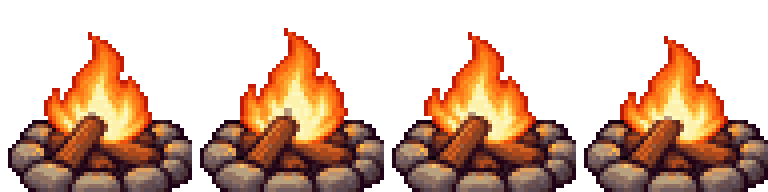
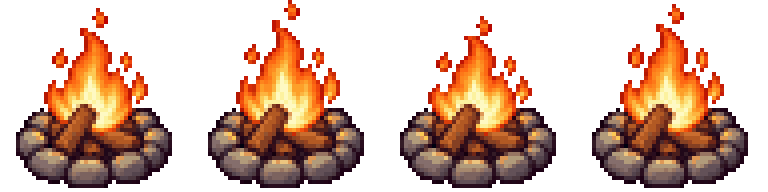
Camp art: fix clipped/squashed base-object sprites

diff --git a/index.html b/index.html
@@ -7,10 +7,10 @@
 <link rel="preconnect" href="https://fonts.googleapis.com">
 <link rel="preconnect" href="https://fonts.gstatic.com" crossorigin>
 <link rel="stylesheet" href="https://fonts.googleapis.com/css2?family=LXGW+WenKai+TC&display=swap">
-<link rel="stylesheet" href="css/font.css?v=171">
-<link rel="stylesheet" href="css/style.css?v=171">
-<link rel="stylesheet" href="css/decor.css?v=171">
-<link rel="stylesheet" href="css/peglin.css?v=171">
+<link rel="stylesheet" href="css/font.css?v=172">
+<link rel="stylesheet" href="css/style.css?v=172">
+<link rel="stylesheet" href="css/decor.css?v=172">
+<link rel="stylesheet" href="css/peglin.css?v=172">
 </head>
 <body>
 <div id="app">
@@ -29,42 +29,42 @@
 <div id="modalRoot"></div>
 <div id="toastRoot"></div>
 
-<script src="data/bank.js?v=171"></script>
-<script src="data/learn.js?v=171"></script>
-<script src="data/prompts.js?v=171"></script>
-<script src="js/util.js?v=171"></script>
-<script src="js/sprites.js?v=171"></script>
-<script src="js/pets.js?v=171"></script>
-<script src="js/audio.js?v=171"></script>
-<script src="js/content.js?v=171"></script>
-<script src="js/content2.js?v=171"></script>
-<script src="js/monsters.js?v=171"></script>
-<script src="js/world.js?v=171"></script>
-<script src="js/hero-atlas.js?v=171"></script>
-<script src="js/heroes.js?v=171"></script>
-<script src="js/store.js?v=171"></script>
-<script src="js/favorites.js?v=171"></script>
-<script src="js/secrets.js?v=171"></script>
-<script src="js/question.js?v=171"></script>
-<script src="js/run.js?v=171"></script>
-<script src="js/fx.js?v=171"></script>
-<script src="js/battle.js?v=171"></script>
-<script src="js/screens.js?v=171"></script>
-<script src="js/camp.js?v=171"></script>
-<script src="js/decor-data.js?v=171"></script>
-<script src="js/decor.js?v=171"></script>
-<script src="js/pomo.js?v=171"></script>
-<script src="js/calc.js?v=171"></script>
-<script src="js/learn.js?v=171"></script>
-<script src="js/glossary.js?v=171"></script>
-<script src="js/importer.js?v=171"></script>
-<script src="js/prompts_ui.js?v=171"></script>
-<script src="js/peglin.js?v=171"></script>
-<script src="js/cloud-config.js?v=171"></script>
-<script src="js/cloud.js?v=171"></script>
-<script src="js/pad.js?v=171"></script>
-<script src="js/ai.js?v=171"></script>
-<script src="js/toolmenu.js?v=171"></script>
-<script src="js/main.js?v=171"></script>
+<script src="data/bank.js?v=172"></script>
+<script src="data/learn.js?v=172"></script>
+<script src="data/prompts.js?v=172"></script>
+<script src="js/util.js?v=172"></script>
+<script src="js/sprites.js?v=172"></script>
+<script src="js/pets.js?v=172"></script>
+<script src="js/audio.js?v=172"></script>
+<script src="js/content.js?v=172"></script>
+<script src="js/content2.js?v=172"></script>
+<script src="js/monsters.js?v=172"></script>
+<script src="js/world.js?v=172"></script>
+<script src="js/hero-atlas.js?v=172"></script>
+<script src="js/heroes.js?v=172"></script>
+<script src="js/store.js?v=172"></script>
+<script src="js/favorites.js?v=172"></script>
+<script src="js/secrets.js?v=172"></script>
+<script src="js/question.js?v=172"></script>
+<script src="js/run.js?v=172"></script>
+<script src="js/fx.js?v=172"></script>
+<script src="js/battle.js?v=172"></script>
+<script src="js/screens.js?v=172"></script>
+<script src="js/camp.js?v=172"></script>
+<script src="js/decor-data.js?v=172"></script>
+<script src="js/decor.js?v=172"></script>
+<script src="js/pomo.js?v=172"></script>
+<script src="js/calc.js?v=172"></script>
+<script src="js/learn.js?v=172"></script>
+<script src="js/glossary.js?v=172"></script>
+<script src="js/importer.js?v=172"></script>
+<script src="js/prompts_ui.js?v=172"></script>
+<script src="js/peglin.js?v=172"></script>
+<script src="js/cloud-config.js?v=172"></script>
+<script src="js/cloud.js?v=172"></script>
+<script src="js/pad.js?v=172"></script>
+<script src="js/ai.js?v=172"></script>
+<script src="js/toolmenu.js?v=172"></script>
+<script src="js/main.js?v=172"></script>
 </body>
 </html>

diff --git a/css/style.css b/css/style.css
@@ -704,7 +704,7 @@ input[type=range]::-moz-range-thumb { width: 14px; height: 18px; background: var
 .camp-mail .flag-dot { position: absolute; right: 2px; top: 6px; width: 8px; height: 8px; background: #ff5c6c; border: 2px solid var(--line); animation: ptTwinkle 1.2s steps(2) infinite; }
 .camp-mail.read .flag-dot { display: none; }
 .camp-pot { left: 73%; bottom: 22px; }
-.camp-pond { right: 2%; bottom: 3px; width: min(170px, 22%); z-index: 1; }
+.camp-pond { right: 2%; bottom: 3px; width: min(128px, 17%); z-index: 1; }
 .camp-pond > img { width: 100%; display: block; image-rendering: pixelated; }
 
 
@@ -772,7 +772,7 @@ input[type=range]::-moz-range-thumb { width: 14px; height: 18px; background: var
 }
 @media (max-width: 640px) {
   .camp-wrap .camp-obj { zoom: .72; }
-  .camp-wrap .camp-pond { zoom: 1; width: 26%; }
+  .camp-wrap .camp-pond { zoom: 1; width: 21%; }
   .camp-wrap .camp-hero { left: 17%; }
   .camp-mail { left: 34%; }
   .camp-pot { left: 66%; }
@@ -1635,7 +1635,7 @@ html:has(.win-resizing) { cursor: nwse-resize; }
 .camp-fire { width:70px; height:78px; }
 .camp-mail { width:40px; height:48px; }
 .camp-pot { width:48px; height:56px; }
-.camp-pond { aspect-ratio:48 / 14; }
+.camp-pond { aspect-ratio:64 / 38; }
 .camp-art { display:block; position:absolute; top:0; left:0; width:100%; image-rendering:pixelated; background-repeat:no-repeat; }
 .board-art { height:36px; background-image:url('../assets/camp/board.png'); background-size:100% 100%; }
 .fire-art { height:70px; background-image:url('../assets/camp/fire.png'); background-size:400% 100%; animation:campFireFrames .8s steps(4) infinite; }

diff --git a/tools/decor-qa/make-camp-art.py b/tools/decor-qa/make-camp-art.py
@@ -1,74 +1,152 @@
-from PIL import Image, ImageDraw
+"""Build the camp base-object sprite sheets in assets/camp/ from docs/decor/camp-base-source.png.
+
+Each object is cropped from its real bounding box (with margin), scaled to fit its logical
+canvas without changing the aspect ratio, anchored bottom-center, and snapped to a pixel grid
+(binary alpha, small palette), then upscaled x4. Run: python tools/decor-qa/make-camp-art.py
+"""
+from PIL import Image, ImageDraw
 from pathlib import Path
-src=Image.open('docs/decor/camp-base-source.png').convert('RGBA')
-out=Path('assets/camp'); out.mkdir(exist_ok=True)
-# Snap each isolated cutout to a 1px logical grid, quantize, binary alpha, upscale x4.
-def sprite(box,size):
- im=src.crop(box).resize(size,Image.Resampling.LANCZOS)
- a=im.getchannel('A').point(lambda x:255 if x>=128 else 0)
- rgb=im.convert('RGB').quantize(colors=48,method=Image.Quantize.MEDIANCUT,dither=Image.Dither.NONE).convert('RGBA'); rgb.putalpha(a)
- # Keep the largest connected silhouette; remove detached generation specks.
- pix=rgb.load(); seen=set(); groups=[]
- for y in range(rgb.height):
-  for x in range(rgb.width):
-   if pix[x,y][3] and (x,y) not in seen:
-    todo=[(x,y)]; seen.add((x,y)); group=[]
-    while todo:
-     q=todo.pop(); group.append(q)
-     for xx,yy in ((q[0]-1,q[1]),(q[0]+1,q[1]),(q[0],q[1]-1),(q[0],q[1]+1)):
-      if 0<=xx<rgb.width and 0<=yy<rgb.height and (xx,yy) not in seen and pix[xx,yy][3]: seen.add((xx,yy)); todo.append((xx,yy))
-    groups.append(group)
- if groups:
-  for group in groups:
-   if group is not max(groups,key=len):
-    for x,y in group: pix[x,y]=(0,0,0,0)
- return rgb
-fire=sprite((40,175,385,570),(48,48)); board=sprite((405,195,810,562),(36,36)); mail=sprite((850,198,1130,570),(40,40)); plant=sprite((1160,210,1495,570),(48,48)); pond=sprite((1495,280,2010,570),(96,28))
-def save(im,name): im.resize((im.width*4,im.height*4),Image.Resampling.NEAREST).save(out/name)
-def strip(frames,name):
- im=Image.new('RGBA',(frames[0].width*len(frames),frames[0].height))
- for i,f in enumerate(frames): im.paste(f,(i*f.width,0))
- save(im,name)
-save(board,'board.png')
-# Animate only flame region, retaining the stone and log base.
-frames=[]
-for dx,dy in [(0,0),(1,-1),(-1,0),(0,1)]:
- f=fire.copy(); patch=fire.crop((8,1,40,29)); f.paste((0,0,0,0),(8,1,40,29)); f.alpha_composite(patch,(8+dx,1+dy)); frames.append(f)
-strip(frames,'fire.png')
-# Lower the flag by replacing its raised segment with a short horizontal flag.
-down=mail.copy(); d=ImageDraw.Draw(down); d.rectangle((28,0,39,17),fill=(0,0,0,0)); d.rectangle((29,14,37,17),fill=(57,29,41,255)); d.rectangle((30,14,37,15),fill=(193,53,50,255))
-strip([mail,down],'mail.png')
-# Keep the generated pot body and add successive plant growth, keeping every frame registered.
-frames=[]
+import numpy as np
+
+SRC = Image.open('docs/decor/camp-base-source.png').convert('RGBA')
+OUT = Path('assets/camp'); OUT.mkdir(exist_ok=True)
+A = np.array(SRC.getchannel('A'))
+
+# x ranges of the five objects on the source sheet (left to right)
+REGIONS = {'fire': (0, 425), 'board': (425, 880), 'mail': (880, 1215), 'pot': (1215, 1575), 'pond': (1575, SRC.width)}
+
+def bbox(x0, x1, thr=40):
+    ys, xs = np.nonzero(A[:, x0:x1] >= thr)
+    return x0 + xs.min(), ys.min(), x0 + xs.max() + 1, ys.max() + 1
+
+def clean(im):
+    """Binary alpha, quantize, drop isolated specks of 1-2 px."""
+    a = im.getchannel('A').point(lambda v: 255 if v >= 110 else 0)
+    rgb = im.convert('RGB').quantize(colors=56, method=Image.Quantize.MEDIANCUT, dither=Image.Dither.NONE).convert('RGBA')
+    rgb.putalpha(a)
+    px = rgb.load(); W, H = rgb.size; seen = set()
+    for y in range(H):
+        for x in range(W):
+            if px[x, y][3] and (x, y) not in seen:
+                todo = [(x, y)]; seen.add((x, y)); grp = []
+                while todo:
+                    q = todo.pop(); grp.append(q)
+                    for xx, yy in ((q[0]-1, q[1]), (q[0]+1, q[1]), (q[0], q[1]-1), (q[0], q[1]+1)):
+                        if 0 <= xx < W and 0 <= yy < H and (xx, yy) not in seen and px[xx, yy][3]:
+                            seen.add((xx, yy)); todo.append((xx, yy))
+                if len(grp) <= 2:
+                    for p in grp: px[p] = (0, 0, 0, 0)
+    return rgb
+
+def fit(box, size, margin=6):
+    """Crop source box (+margin), scale to fit size keeping aspect, paste bottom-center."""
+    x0, y0, x1, y1 = box
+    crop = SRC.crop((x0 - margin, y0 - margin, x1 + margin, y1 + margin))
+    W, H = size
+    k = min((W - 2) / crop.width, (H - 1) / crop.height)
+    w, h = max(1, round(crop.width * k)), max(1, round(crop.height * k))
+    small = crop.resize((w, h), Image.Resampling.LANCZOS)
+    canvas = Image.new('RGBA', size)
+    canvas.alpha_composite(small, ((W - w) // 2, H - h))
+    return clean(canvas)
+
+def save(im, name):
+    im.resize((im.width * 4, im.height * 4), Image.Resampling.NEAREST).save(OUT / name)
+
+def strip(frames, name):
+    im = Image.new('RGBA', (frames[0].width * len(frames), frames[0].height))
+    for i, f in enumerate(frames): im.paste(f, (i * f.width, 0))
+    save(im, name)
+
+boxes = {k: bbox(*v) for k, v in REGIONS.items()}
+
+# ---- board (36x36)
+board = fit(boxes['board'], (36, 36)); save(board, 'board.png')
+
+# ---- fire (48x48): flicker by stretching the flame part above the log/stone base
+fire = fit(boxes['fire'], (48, 48))
+split = 30  # rows above this are flame; base (logs + stones) stays fixed
+frames = []
+for s in (1.0, 1.08, 0.94, 1.04):
+    f = fire.copy()
+    top = fire.crop((0, 0, 48, split))
+    nh = max(1, round(split * s))
+    top2 = top.resize((48, nh), Image.Resampling.NEAREST)
+    f.paste((0, 0, 0, 0), (0, 0, 48, split))
+    y = split - nh
+    if y < 0: top2 = top2.crop((0, -y, 48, nh)); y = 0
+    f.alpha_composite(top2, (0, y))
+    # re-lay the base so stretched flame never hides the logs' outline
+    f.alpha_composite(fire.crop((0, split, 48, 48)), (0, split))
+    frames.append(f)
+strip(frames, 'fire.png')
+
+# ---- mail (40x40): frame 0 flag up (has mail), frame 1 flag lowered (read)
+mail = fit(boxes['mail'], (40, 40))
+arr = np.array(mail)
+red = (arr[..., 0] > 150) & (arr[..., 1] < 75) & (arr[..., 2] < 75) & (arr[..., 3] > 0)
+red[20:] = False  # the raised flag is in the top half
+ry, rx = np.nonzero(red)
+down = mail.copy()
+if len(rx):
+    fx0, fx1, fy0, fy1 = rx.min(), rx.max(), ry.min(), ry.max()
+    d = ImageDraw.Draw(down)
+    col = np.nonzero(arr[:, max(0, fx0 - 4), 3] > 0)[0]
+    boxtop = int(col.min()) if len(col) else fy1 + 1               # top of the box just left of the flag
+    d.rectangle((fx0 - 1, 0, 39, boxtop - 1), fill=(0, 0, 0, 0))   # remove raised flag above the box
+    for y, x in zip(*np.nonzero(red)): down.putpixel((int(x), int(y)), (0, 0, 0, 0))
+    mid = boxtop + 6
+    d.rectangle((fx0 - 1, mid - 1, min(39, fx0 + 7), mid + 2), fill=(43, 22, 30, 255))  # outline
+    d.rectangle((fx0, mid, min(38, fx0 + 6), mid + 1), fill=(193, 53, 50, 255))
+strip([mail, down], 'mail.png')
+
+# ---- pot (48x48): stage 4 = full flowering plant; 0-3 = same pot body with growing sprout
+plant = fit(boxes['pot'], (48, 48))
+parr = np.array(plant)
+terra = (parr[..., 0] > 140) & (parr[..., 1] > 60) & (parr[..., 1] < 130) & (parr[..., 2] < 90) & (parr[..., 3] > 0)
+rows = np.nonzero(terra.sum(1) >= 8)[0]
+rim = int(rows.min()) if len(rows) else 32
+xs = np.nonzero(terra.any(0))[0]; cx = int((xs.min() + xs.max()) // 2) if len(xs) else 24
+body = Image.new('RGBA', (48, 48)); body.alpha_composite(plant.crop((0, rim, 48, 48)), (0, rim))
+def largest(im):
+    from scipy import ndimage
+    a = np.array(im); lab, n = ndimage.label(a[..., 3] > 0)
+    if n > 1:
+        keep = np.argmax(ndimage.sum(np.ones_like(lab), lab, range(1, n + 1))) + 1
+        a[lab != keep] = 0
+    return Image.fromarray(a)
+body = largest(body)
+frames = []
 for stage in range(5):
- if stage==4: frames.append(plant.copy()); continue
- f=Image.new('RGBA',(48,48)); f.alpha_composite(plant.crop((8,32,40,48)),(8,32)); d=ImageDraw.Draw(f)
- d.ellipse((12,26,36,31),fill=(69,37,32,255)); d.ellipse((14,27,34,30),fill=(105,66,44,255))
- if stage>=1:
-  d.line([(24,28),(24,23 if stage==1 else 17)],fill=(47,78,38,255),width=2)
-  d.polygon([(24,25),(19,21),(16,22),(19,25)],fill=(75,120,48,255))
- if stage>=2:
-  d.polygon([(24,23),(29,17),(34,18),(30,22)],fill=(89,135,50,255)); d.polygon([(24,20),(20,15),(16,16),(19,20)],fill=(63,108,41,255))
- if stage>=3:
-  d.ellipse((20,10,28,18),fill=(93,44,51,255)); d.ellipse((21,10,27,16),fill=(220,115,141,255))
- frames.append(f)
-strip(frames,'pot.png')
-# Shift small water highlights across otherwise identical pond frames.
-frames=[]
-for shift in [0,2,4,2]:
- f=pond.copy(); d=ImageDraw.Draw(f); d.line((34+shift,13,39+shift,13),fill=(151,205,217,255),width=1); frames.append(f)
-strip(frames,'pond.png')
-# Review backgrounds: a classic grass approximation and two real scene variants.
-from PIL import ImageFont
-sheet=Image.new('RGB',(1200,780),(38,43,44)); draw=ImageDraw.Draw(sheet)
-bgs=[('classic day',None),('classic night',None),('beach day','assets/decor/scenes/scene_beach_day.png'),('beach night','assets/decor/scenes/scene_beach_night.png'),('sakura day','assets/decor/scenes/scene_sakura_day.png'),('sakura night','assets/decor/scenes/scene_sakura_night.png')]
-variants=[('board', [board]),('fire', [fire]+frames[:0]),('mail',[mail,down]),('pot',[]),('pond',[])]
-for row,(label,path) in enumerate(bgs):
- y=row*130; bg=Image.open(path).convert('RGB').resize((1200,300)).crop((0,160,1200,290)) if path else Image.new('RGB',(1200,130),(83,139,76) if row==0 else (32,62,50)); sheet.paste(bg,(0,y)); draw.text((5,y+3),label,fill='white')
- for idx,(name,count) in enumerate([('board',1),('fire',4),('mail',2),('pot',5),('pond',4)]):
-  raw=Image.open(out/(name+'.png')); fw=raw.width//count
-  for n in range(count):
-   im=raw.crop((n*fw,0,(n+1)*fw,raw.height)); im.thumbnail((55 if name!='pond' else 70,80),Image.Resampling.NEAREST)
-   x=125+idx*210+n*(37 if name=='pot' else 42); sheet.paste(im,(x,y+115-im.height),im)
-  draw.text((125+idx*210,y+5),name,fill='white')
-sheet.save('docs/decor/contact-camp-base.png')
+    if stage == 4: frames.append(plant.copy()); continue
+    f = body.copy(); d = ImageDraw.Draw(f)
+    d.ellipse((cx - 11, rim - 2, cx + 11, rim + 3), fill=(69, 37, 32, 255)); d.ellipse((cx - 9, rim - 1, cx + 9, rim + 2), fill=(105, 66, 44, 255))
+    if stage >= 1:
+        top = rim - (5 if stage == 1 else 11)
+        d.line([(cx, rim), (cx, top)], fill=(47, 78, 38, 255), width=2)
+        d.polygon([(cx, rim - 3), (cx - 5, rim - 7), (cx - 8, rim - 6), (cx - 5, rim - 3)], fill=(75, 120, 48, 255))
+    if stage >= 2:
+        d.polygon([(cx, rim - 5), (cx + 5, rim - 11), (cx + 10, rim - 10), (cx + 6, rim - 6)], fill=(89, 135, 50, 255))
+        d.polygon([(cx, rim - 8), (cx - 4, rim - 13), (cx - 8, rim - 12), (cx - 5, rim - 8)], fill=(63, 108, 41, 255))
+    if stage >= 3:
+        d.ellipse((cx - 4, rim - 18, cx + 4, rim - 10), fill=(93, 44, 51, 255)); d.ellipse((cx - 3, rim - 18, cx + 3, rim - 12), fill=(220, 115, 141, 255))
+    frames.append(f)
+strip(frames, 'pot.png')
+
+# ---- pond: keep true aspect (logical width 64); moving water glints inside the blue area
+px0, py0, px1, py1 = boxes['pond']
+PW = 64; PH = round(PW * (py1 - py0 + 12) / (px1 - px0 + 12)) + 1
+pond = fit(boxes['pond'], (PW, PH))
+qa = np.array(pond)
+blue = (qa[..., 2] > 150) & (qa[..., 0] < 110) & (qa[..., 3] > 0)
+by, bx = np.nonzero(blue)
+frames = []
+for shift in (0, 2, 4, 2):
+    f = pond.copy(); d = ImageDraw.Draw(f)
+    if len(bx):
+        cy = int(by.mean()); x0 = int(bx.min() + (bx.max() - bx.min()) * 0.3)
+        d.line((x0 + shift, cy - 2, x0 + shift + 4, cy - 2), fill=(170, 220, 232, 255))
+        d.line((x0 + 10 - shift, cy + 2, x0 + 13 - shift, cy + 2), fill=(151, 205, 217, 255))
+    frames.append(f)
+strip(frames, 'pond.png')
+print('pond logical size', PW, PH)

diff --git a/CLAUDE.md b/CLAUDE.md
@@ -525,7 +525,7 @@
   - 存檔 `Store.profile.decor`（shards／scenes／scene／placed〔x、y 為比例〕／pity／log），隨 exportAll 與雲端同步；舊存檔自動補預設（經典草原、未擺放）。經典草原沿用原本 CSS 營地；圖片場景 `night: dim` 依時段調暗、`self`（圖書館、水晶洞窟、天文台）不調暗。布置模式可拖曳（滑鼠／觸控）、翻轉、收回，最多 40 件；抽屜物件在觸控裝置是點一下放入再拖曳。
 - **場景四個時段（v167）**：8 張圖片場景各有早晨／白天／黃昏／夜晚四張重畫的圖 `assets/decor/scenes/<id>_<morning|day|dusk|night>.png`（Codex 以原圖為參考逐張編修，地面線對齊、檢查器比對四張的地面位置，誤差 0px；原 `<id>.png` 保留）。manifest 每個場景有 `tod`，營地依 `timeOfDay()`（自動或營地時段按鈕）換圖，有 `tod` 的場景不再用 CSS 調暗；商店場景卡顯示四個時段小圖。審圖 `docs/decor/contact-scenes-tod.png`，產生紀錄 `docs/decor/tod-generation.json`、`tools/decor_tod.py`。
 - **基本物件也能拖曳（v168）**：布置營地時，告示板、篝火、信箱、花盆、池塘也能拖曳（基本物件不能收回）。位置存 `Store.profile.decor.base[key] = {x, y}`（比例座標），舊存檔沒有 `base`＝原本位置不變；抽屜「↺ 基本物件回原位」清除。布置模式外原本的點擊功能（篝火、每日任務、信箱、澆花、釣魚）照常，布置中不觸發。390px 預設版面勇者會蓋住信箱（原本就如此），可把信箱拖開。
-- **基本物件重畫（v171）**：篝火、池塘、信箱、花盆、告示板改用和背景商店同一套像素風格的新圖（`assets/camp/`：`fire.png` 4 格火焰動畫、`pond.png` 4 格水波、`mail.png` 有信／已讀兩格、`pot.png` 0～4 階段、`board.png`），用 CSS `steps()` 播放（`css/style.css` 的 `.camp-art`／`.fire-art` 等）；外框尺寸維持原本（拖曳座標不變），夜晚／黃昏的濾鏡和背景商店物件一樣，篝火不調暗。產生腳本 `tools/decor-qa/make-camp-art.py`、審圖 `docs/decor/contact-camp-base.png`；火焰第 2 格的透明橫線是直接修在 PNG 上，重跑腳本會再出現。舊的 SP／PetArt 圖仍保留給其他畫面。decor QA 230/230。
+- **基本物件重畫（v171）**：篝火、池塘、信箱、花盆、告示板改用和背景商店同一套像素風格的新圖（`assets/camp/`：`fire.png` 4 格火焰動畫、`pond.png` 4 格水波、`mail.png` 有信／已讀兩格、`pot.png` 0～4 階段、`board.png`），用 CSS `steps()` 播放（`css/style.css` 的 `.camp-art`／`.fire-art` 等）；外框尺寸維持原本（拖曳座標不變），夜晚／黃昏的濾鏡和背景商店物件一樣，篝火不調暗。產生腳本 `tools/decor-qa/make-camp-art.py`（可重跑）。v172 修正切邊破圖：舊腳本的裁切框比原圖小（火焰、石圈、池塘右邊與下緣被切掉）且池塘被壓扁，現在依原圖實際範圍＋邊距裁切、等比例縮放貼底置中；篝火改成拉伸火焰部分做跳動；池塘改成 64×38 原比例（`.camp-pond` 寬 min(128px,17%)，手機 21%）。舊的 SP／PetArt 圖仍保留給其他畫面。decor QA 230/230。
 - **勇者與夥伴也能拖曳（v169）**：布置營地時勇者（`data-base="hero"`）、夥伴（`"pet"`）跟基本物件一樣拖曳，存在 `profile.decor.base.hero／pet`，「↺ 基本物件回原位」一起清除，舊存檔不動。夥伴原本靠 `left%` 走來走去：有存位置時 `styleBase` 先把 left 歸回 52% 再算 translate，所以整個走動範圍跟著移動；布置中暫停走動。布置中勇者與夥伴 z-index 降到 1，避免它們很大的外框擋住後面的信箱與物件（還是拖得到沒被擋住的部分）。腳下陰影、待機動畫、布置模式外的點擊（勇者說話、摸夥伴）照常。decor QA 228/228（含夥伴拖曳）。
 - QA：`tools/decor-qa/check.cjs`（Playwright＋Edge 一次性 context、file://、1100／390px，98 項：購買、單抽／十連、20,000 抽機率、十連保證、保底、碎片門檻、實際拖曳與重載、場景切換與夜間濾鏡、匯出匯入、舊存檔、彈珠未登入被擋、無頁面錯誤），結果 `docs/decor/qa.json`、截圖 `output/playwright/decor-*.png`。沒有實機 iPad／手機測試。
 
